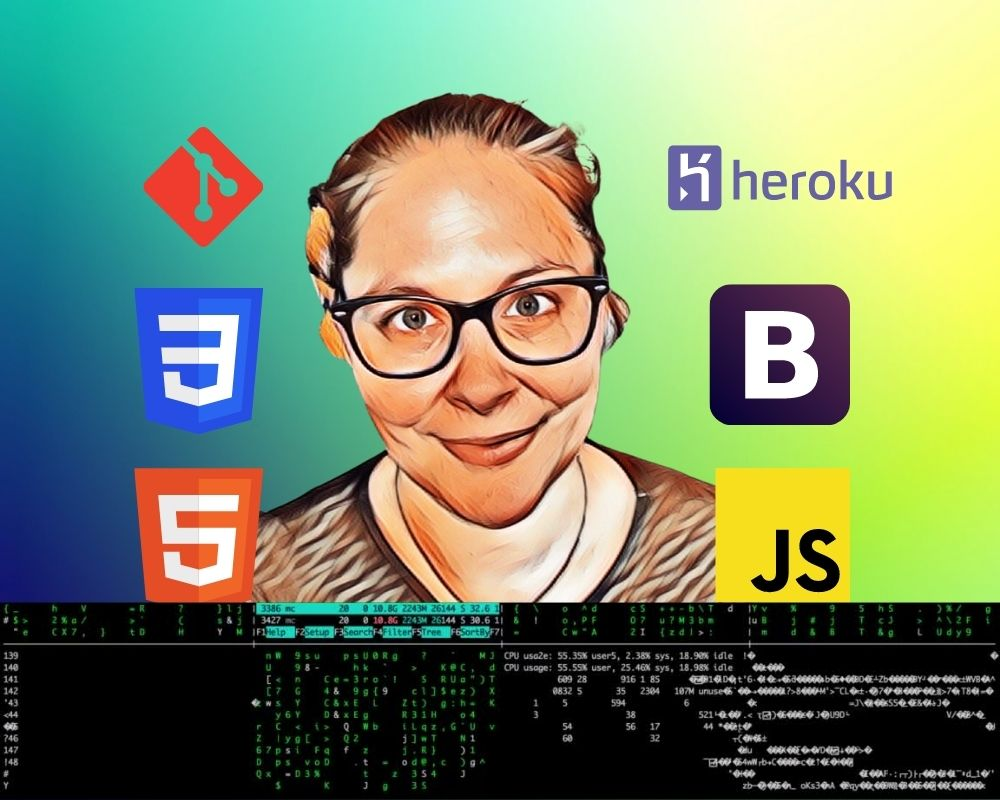
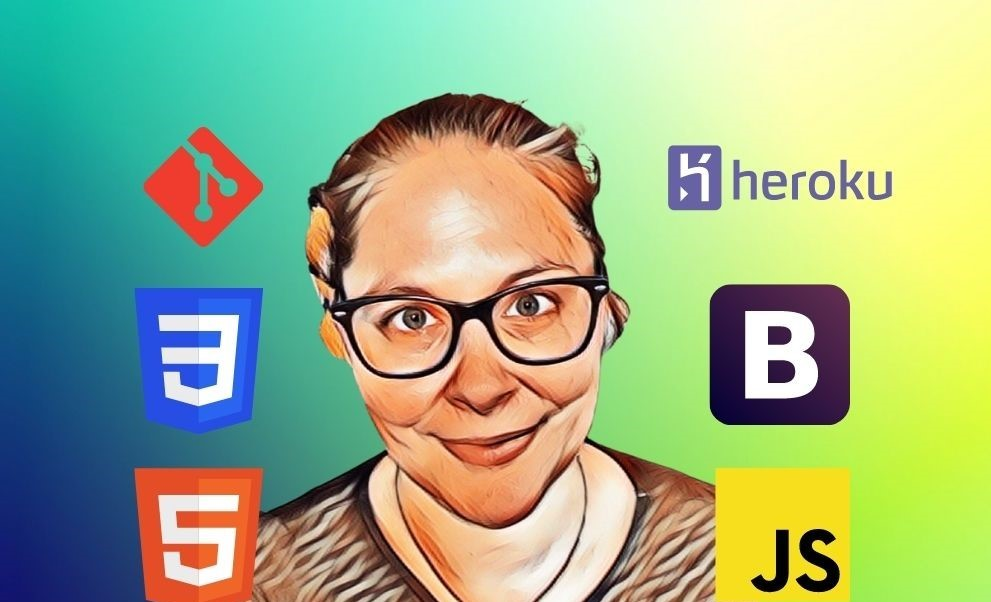
Replace profile image and change menu item colors

diff --git a/assets/css/style.css b/assets/css/style.css
@@ -3,23 +3,23 @@
 /* ------------------------------ Colors */
 
 .bg-color-name-title {
-    background-color: black;
+    background-color: #0a877e;
 }
 
 .ui-menu-color-home {
-    background-color: #e67e22;
+    background-color: #e74d23;
 }
 
 .ui-menu-color-resume {
-    background-color: #9b59b6;
+    background-color: #2a50e0;
 }
 
 .ui-menu-color-contact {
-    background-color: #3498db;
+    background-color: #8cde72;
 }
 
 .ui-menu-color-download {
-    background-color: #525252;
+    background-color: #f7df1d;
 }
 
 /* ------------------------------ Heading */
